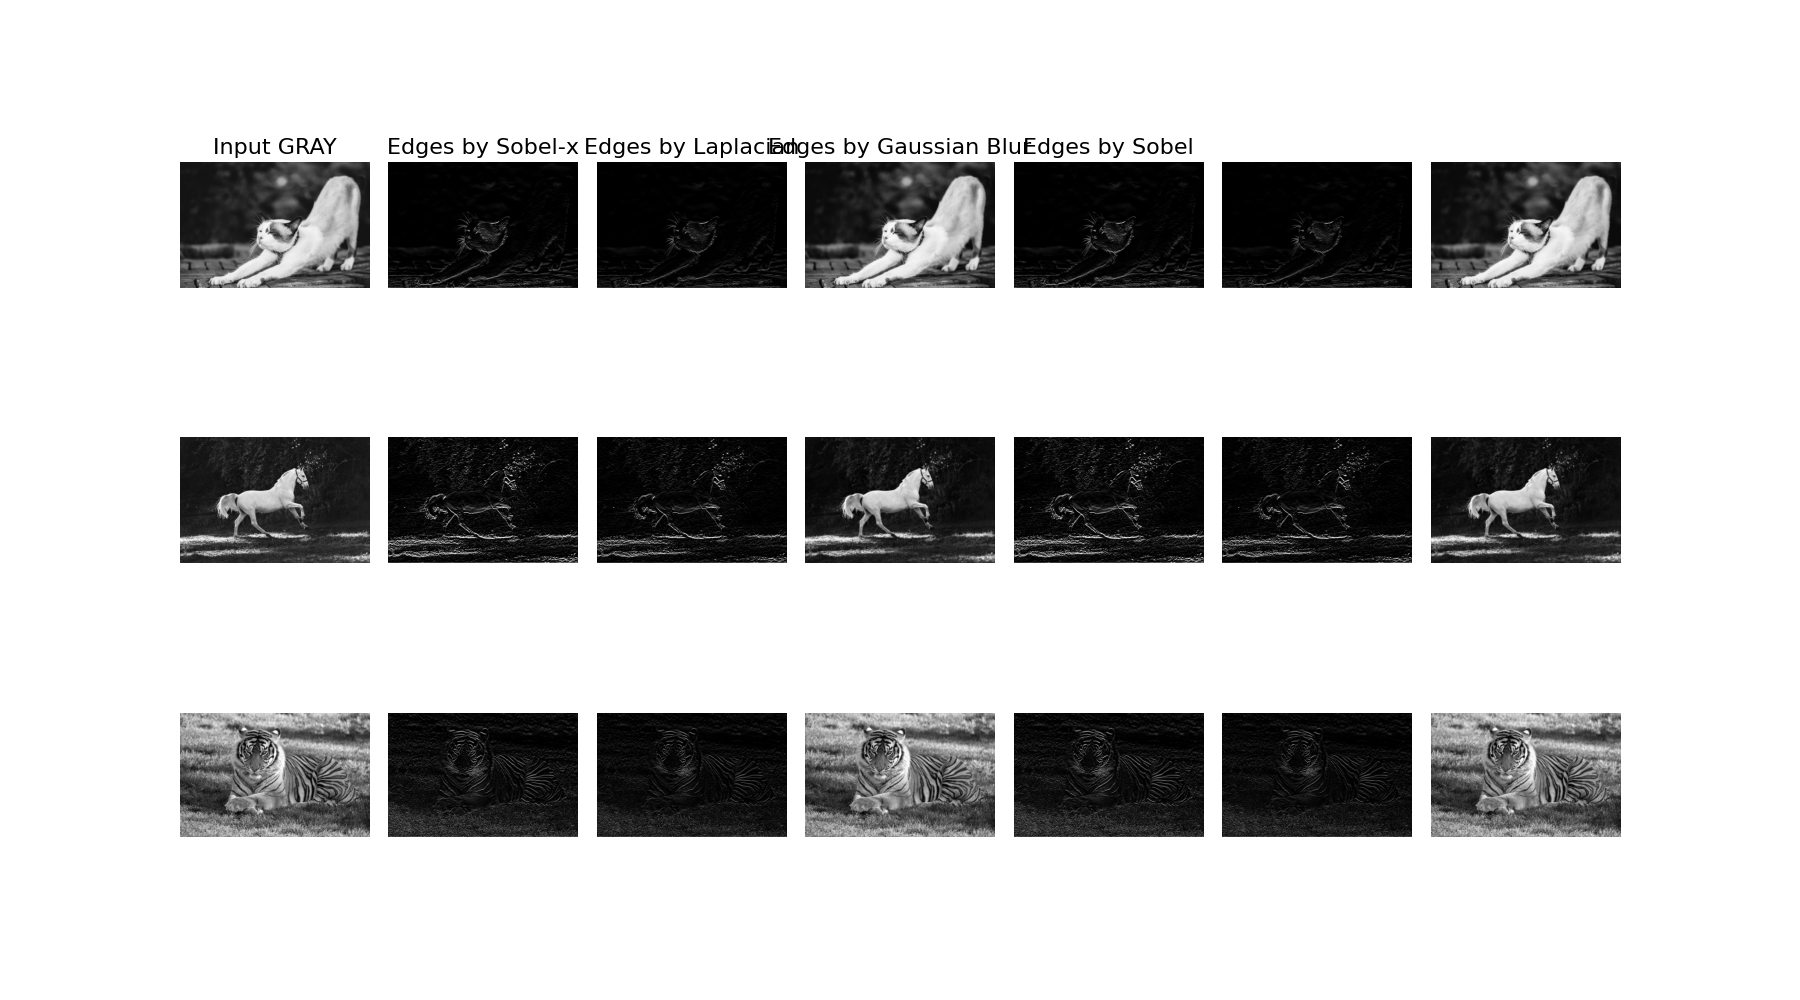
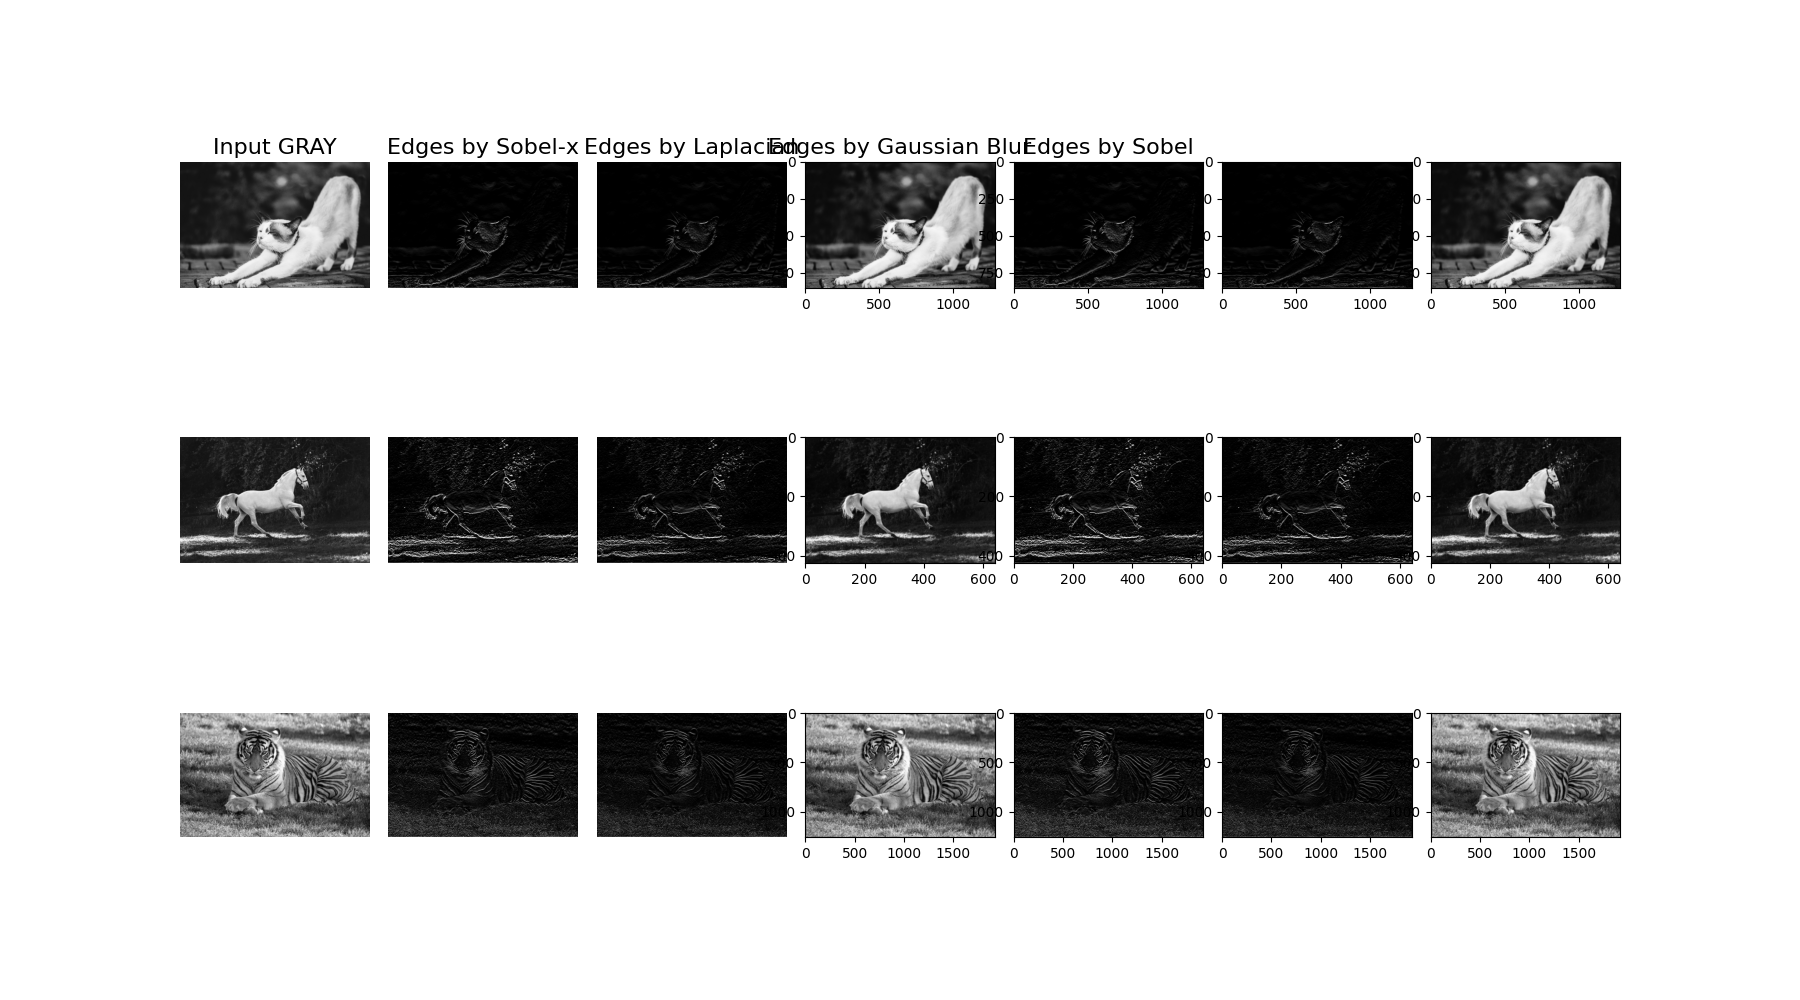
visualisation of output

diff --git a/Part 1/convolution.py b/Part 1/convolution.py
@@ -513,7 +513,7 @@ ax[0, 3].set_title('Edges by Gaussian Blur', fontsize=16)
 
 # Hiding axes to all subplots
 for i in range(3):
-    for j in range(7):
+    for j in range(3):
         ax[i, j].axis('off')
 
 
